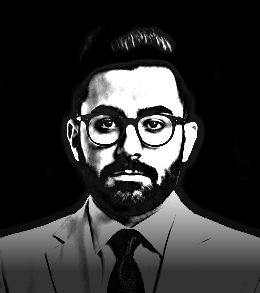
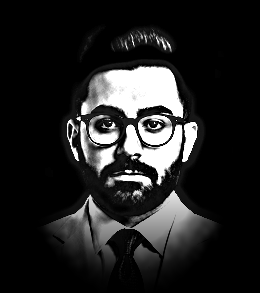
Soften portrait edges with organic fade, scale portrait 10% smaller
Claude-Session: https://claude.ai/code/session_01GrvVT6nEfaDYNj76j9Hv5x

Changed region(s): [[0.4923, 0.7065, 1.0, 1.0], [0.0, 0.7372, 0.4615, 1.0]]

diff --git a/concepts/11-onepage/index.html b/concepts/11-onepage/index.html
@@ -628,7 +628,7 @@ h2{font-size:clamp(38px,4.6vw,60px);line-height:1}
     const cy = narrow ? r.top + r.height * (k === 0 ? .31 : k === 2 ? .24 : .3) : r.top + r.height / 2;
     const hFrac = narrow ? (k === 0 ? .72 : .5) : .9;
     cam.setViewOffset(W, H, W / 2 - (r.left + r.width / 2), H / 2 - cy, W, H);
-    const s = Math.min((r.height * hFrac) / H * VIEW_H / SIZE[k][1], (r.width * .96) / H * VIEW_H / SIZE[k][0], k === 4 ? 1.9 : 1.6);
+    const s = Math.min((r.height * hFrac) / H * VIEW_H / SIZE[k][1], (r.width * .96) / H * VIEW_H / SIZE[k][0], k === 4 ? 1.9 : 1.6) * (k === 0 ? .9 : 1);
     group.scale.setScalar(group.scale.x + (s - group.scale.x) * .12);
   };
 })();

diff --git a/index.html b/index.html
@@ -628,7 +628,7 @@ h2{font-size:clamp(38px,4.6vw,60px);line-height:1}
     const cy = narrow ? r.top + r.height * (k === 0 ? .31 : k === 2 ? .24 : .3) : r.top + r.height / 2;
     const hFrac = narrow ? (k === 0 ? .72 : .5) : .9;
     cam.setViewOffset(W, H, W / 2 - (r.left + r.width / 2), H / 2 - cy, W, H);
-    const s = Math.min((r.height * hFrac) / H * VIEW_H / SIZE[k][1], (r.width * .96) / H * VIEW_H / SIZE[k][0], k === 4 ? 1.9 : 1.6);
+    const s = Math.min((r.height * hFrac) / H * VIEW_H / SIZE[k][1], (r.width * .96) / H * VIEW_H / SIZE[k][0], k === 4 ? 1.9 : 1.6) * (k === 0 ? .9 : 1);
     group.scale.setScalar(group.scale.x + (s - group.scale.x) * .12);
   };
 })();
